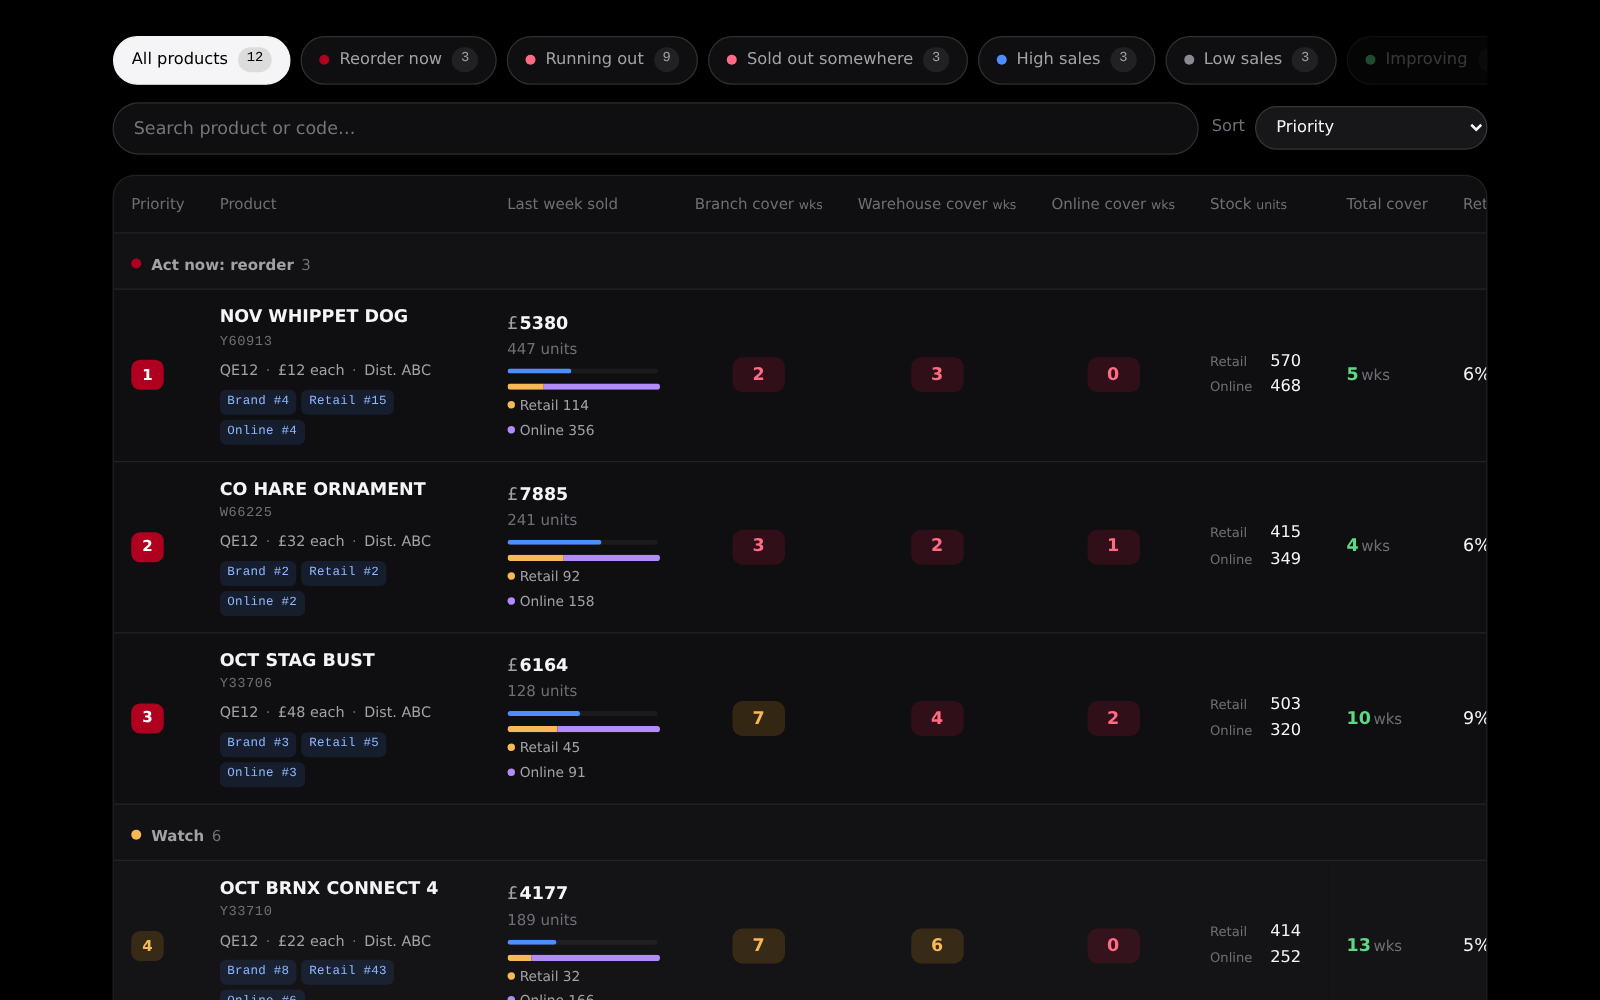
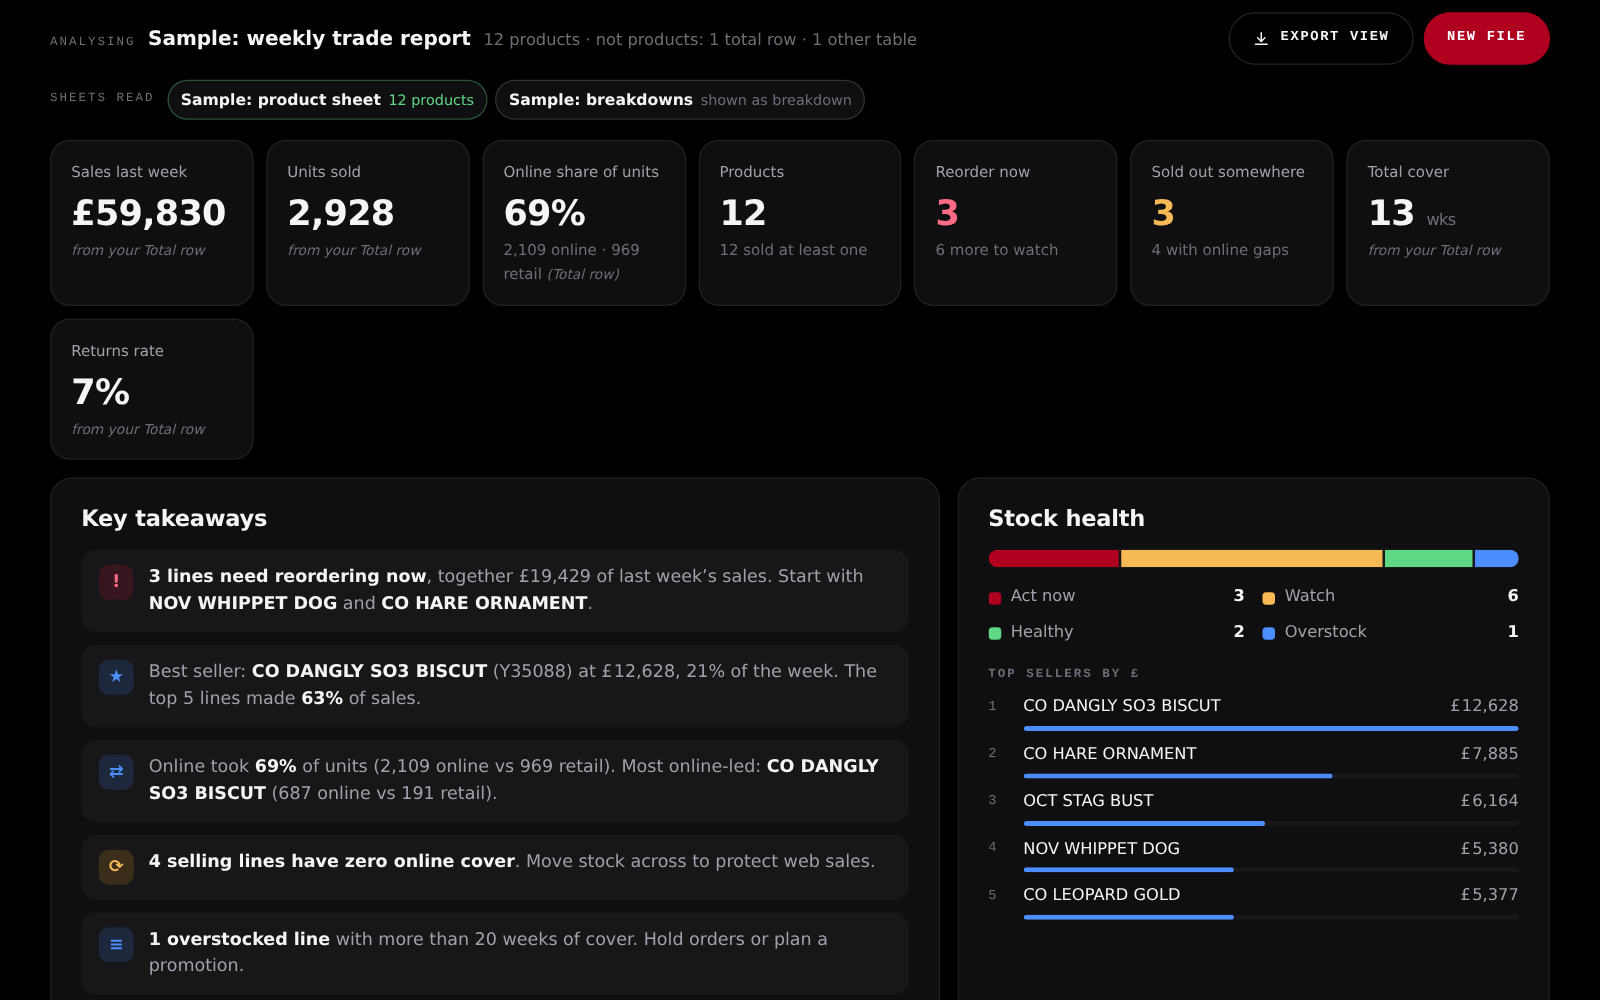
Home: refresh Sales Analysis tool card preview with the current design
Claude-Session: https://claude.ai/code/session_011b4SYt8h9teJ2inZZR78EW

diff --git a/index.html b/index.html
@@ -734,7 +734,7 @@
 
         <a class="site-card reveal" href="/sales-analysis">
           <div class="site-card__img-wrap">
-            <img src="assets/tools/sales-analysis.png" alt="Sales Analysis for Merchandisers: weekly sales report breakdown showing what to reorder" class="site-card__img" loading="lazy">
+            <img src="assets/tools/sales-analysis.png?v=2" alt="Sales Analysis for Merchandisers: weekly sales report breakdown showing what to reorder" class="site-card__img" loading="lazy">
           </div>
           <div class="site-card__body">
             <div class="site-card__meta">
